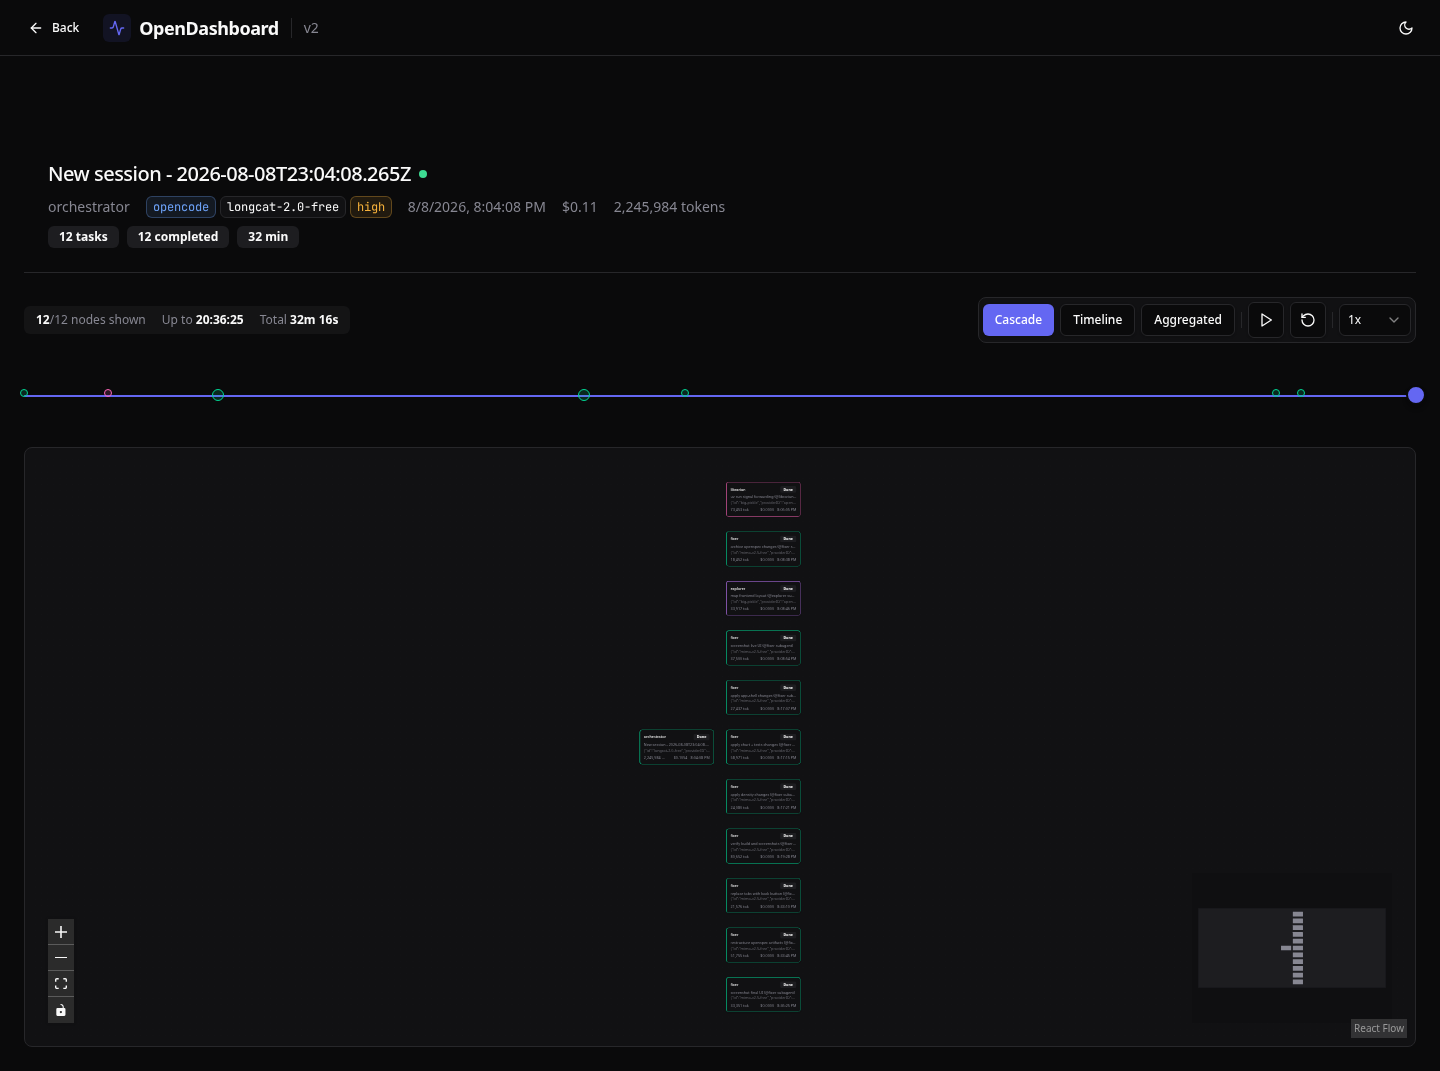
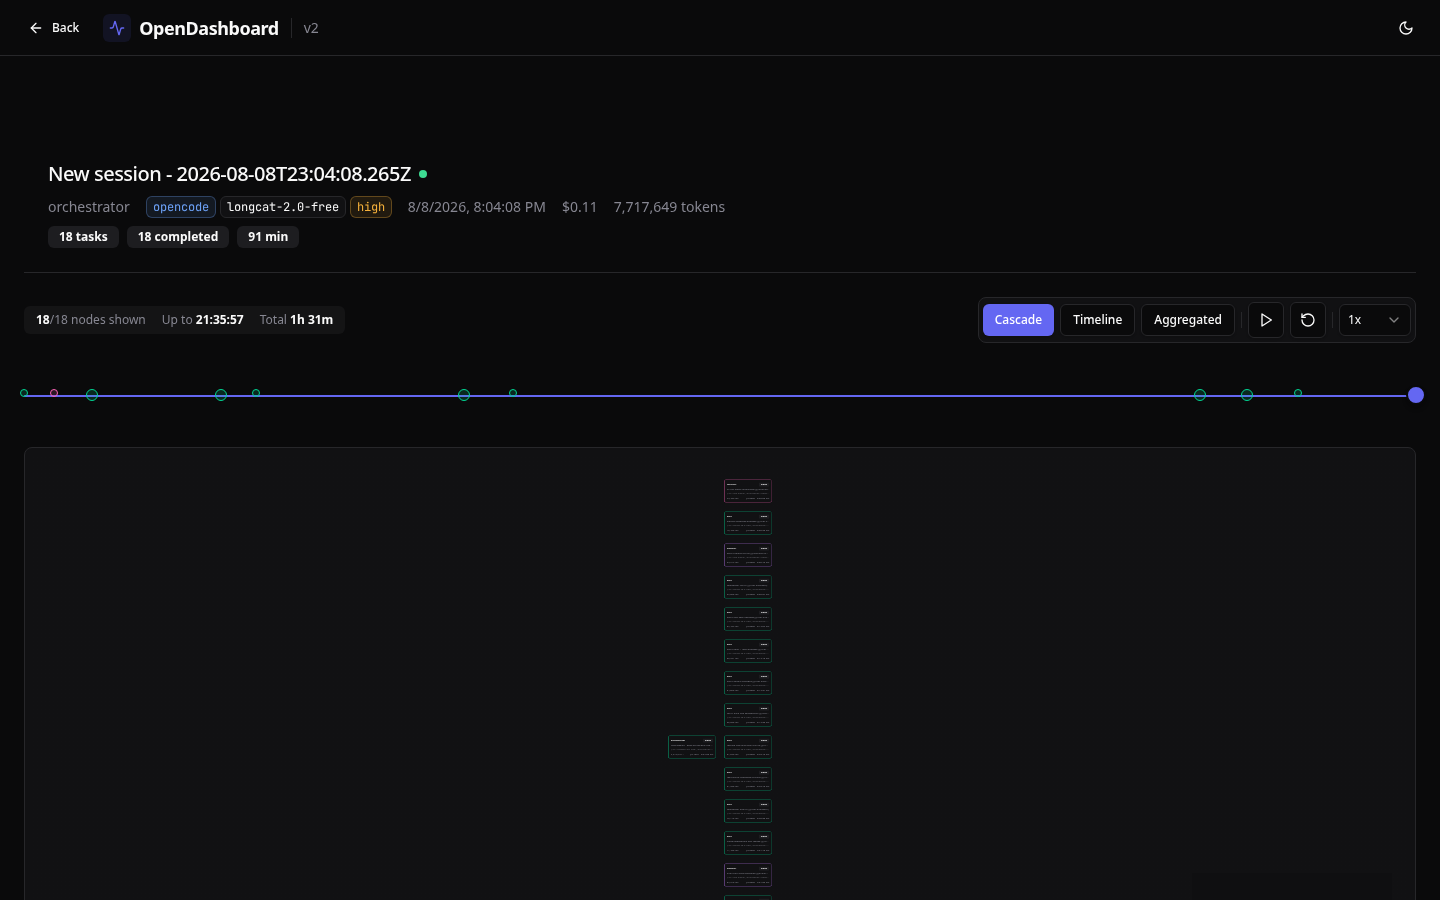
docs: recapture screenshots viewport-only instead of full page
The README images were taken with Playwright's fullPage option, which
stitches the entire scroll height into one strip. The mobile shot came
out 390x6990 — a ratio of 1:17.9 that GitHub scales down to an
unreadable thread.

Viewport-only shots keep each image at its real aspect ratio and cut
the total weight from 1.2MB to 139KB. The mobile img width drops to
280px so it reads as a phone inset rather than a column.

diff --git a/README.md b/README.md
@@ -61,7 +61,7 @@ OpenCode must have been run at least once (this creates the database). No other 
 </p>
 
 <p align="center">
-  <img src="docs/images/dashboard-mobile.png" alt="Mobile layout" width="390" />
+  <img src="docs/images/dashboard-mobile.png" alt="Mobile layout" width="280" />
   <br />
   <em>Mobile layout: responsive design for on-the-go inspection.</em>
 </p>
